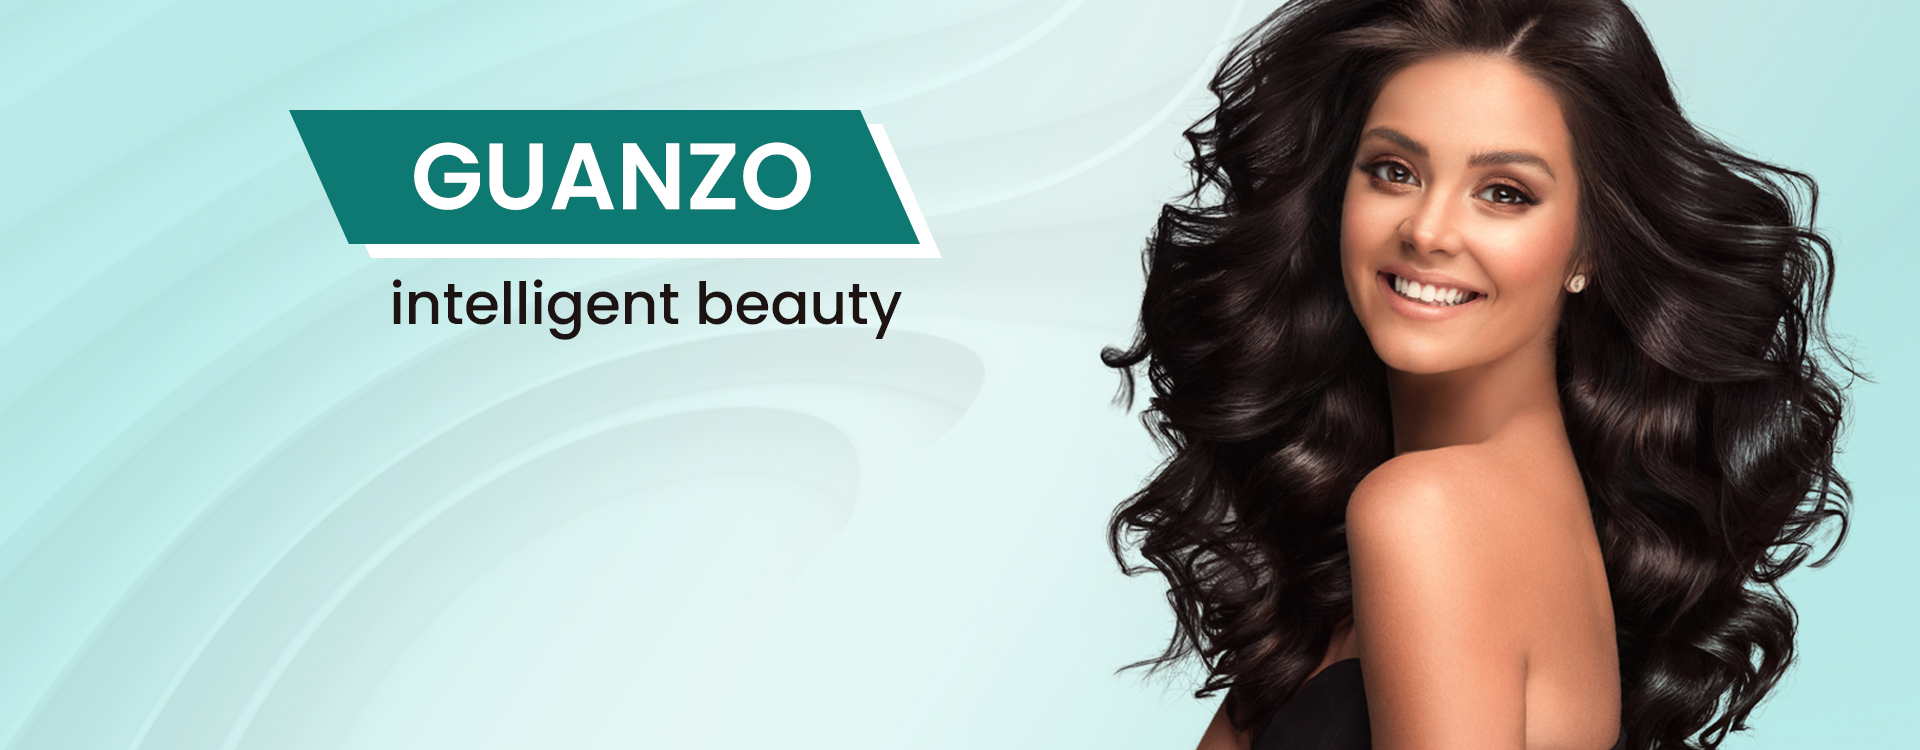
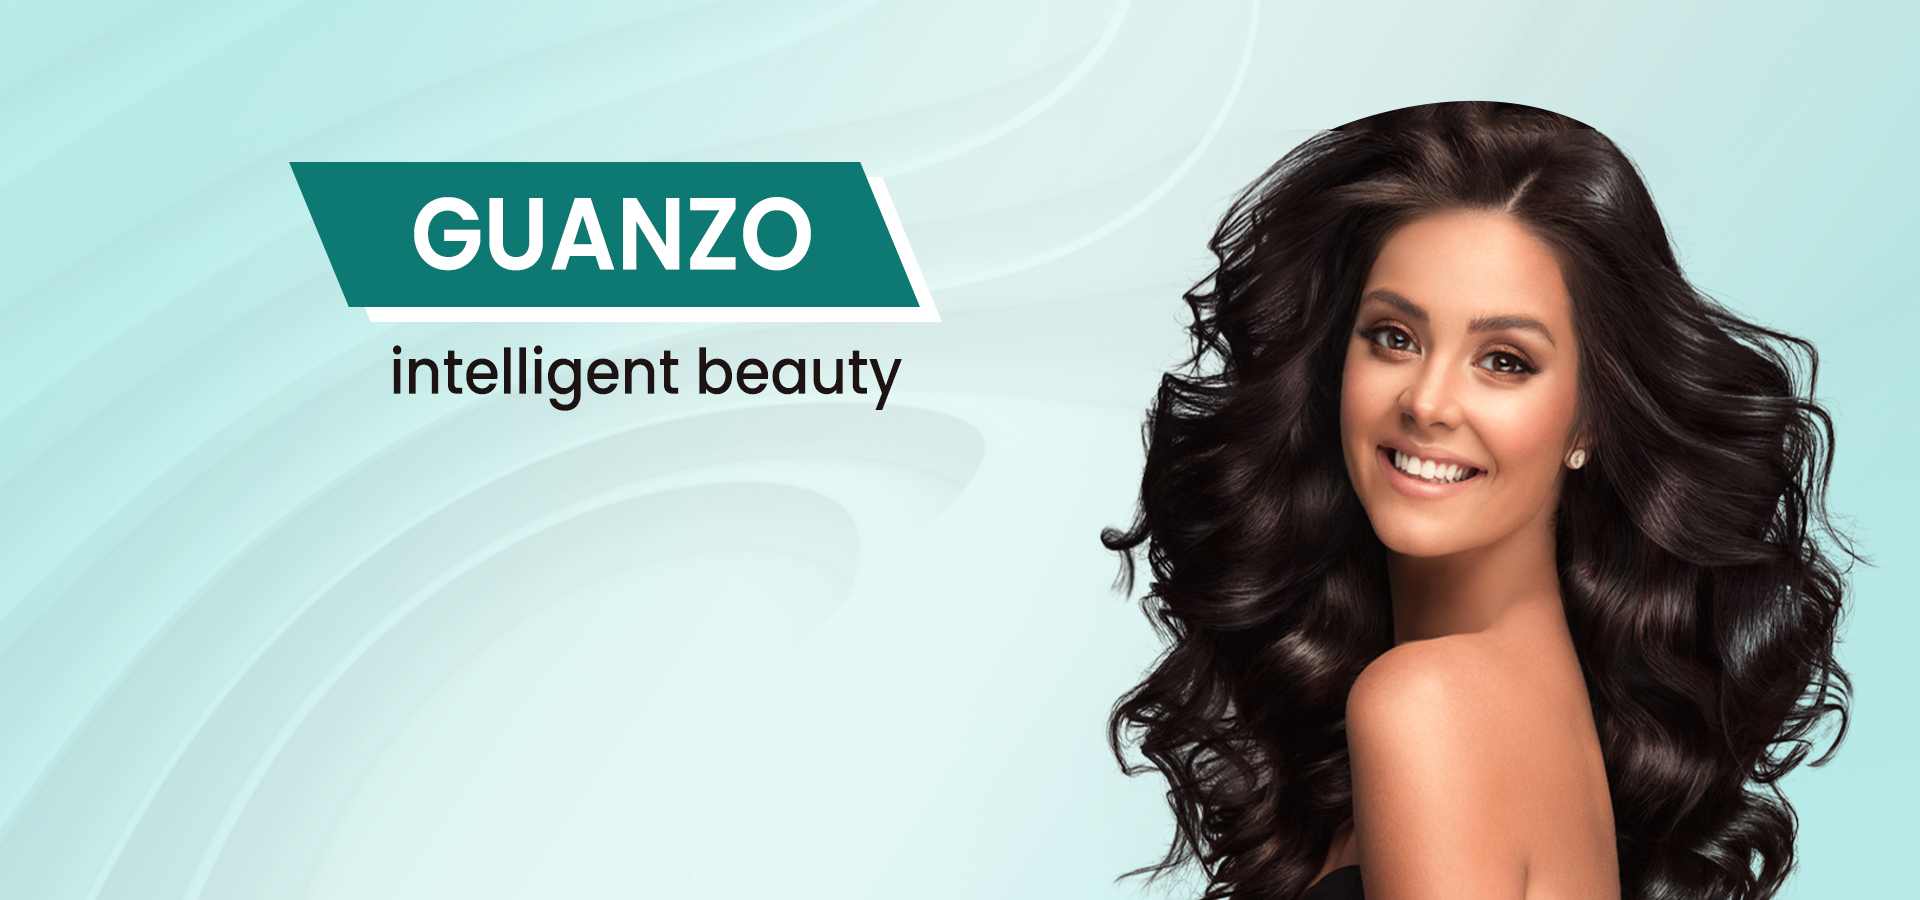
home page design

Changed region(s): [[0.5625, 0.0, 0.9688, 1.0], [0.1562, 0.1227, 0.5, 0.46]]

diff --git a/index.html b/index.html
@@ -43,27 +43,27 @@
         <section class="carousal-section">
             <div id="carouselExampleFade" class="carousel slide carousel-fade" data-ride="carousel">
                 <div class="carousel-inner">
+                  
+                    
                     <div class="carousel-item active">
-                        <img class="d-block w-100" src="img/professional-hair-dryers.jpg" alt="First slide" />
-                    </div>
-                    <div class="carousel-item">
                         <img class="d-block w-100" src="img/guanzo-intelligent-beauty-2.jpg" alt="Second slide" />
                     </div>
-                    <div class="carousel-item">
-                        <img class="d-block w-100" src="img/guanzo-intelligent-beauty.jpg" alt="Third slide" />
+
+                    <!-- <div class="carousel-item">
+                        <img class="d-block w-100" src="img/refreshing-&-strong.jpg" alt="Third slide" />
                     </div>
+
+                   
+                    
                     <div class="carousel-item">
                         <img class="d-block w-100" src="img/live-with-healthy-&-beautiful-hair.jpg" alt="Third slide" />
                     </div>
-                    <div class="carousel-item">
-                        <img class="d-block w-100" src="img/refreshing-&-strong.jpg" alt="Third slide" />
-                    </div>
+                    
                     <div class="carousel-item">
                         <img class="d-block w-100" src="img/protection-repair-and-shine.jpg" alt="Third slide" />
-                    </div>
-                    <div class="carousel-item">
-                        <img class="d-block w-100" src="img/protection-repair-and-shine-1.jpg" alt="Third slide" />
-                    </div>
+                    </div> -->
+                    
+                    
                 </div>
                 <!-- <a class="carousel-control-prev" href="#carouselExampleFade" role="button" data-slide="prev">
                     <span class="carousel-control-prev-icon" aria-hidden="true"></span>

diff --git a/css/style.scss b/css/style.scss
@@ -111,6 +111,11 @@ header{
 
                   > img{
                         height: calc(100vh - 72px);
+
+                        @media(min-width: 1440px) and (max-width: 1600px){
+                              // width: 1440px !important;
+                              height: 828px !important;
+                        }
                         // object-fit: cover;
                   }
 

diff --git a/css/style.css b/css/style.css
@@ -109,6 +109,12 @@ header nav .navbar-nav .nav-item:last-child .nav-link {
   height: calc(100vh - 72px);
 }
 
+@media (min-width: 1440px) and (max-width: 1600px) {
+  .carousal-section .carousel-fade .carousel-item > img {
+    height: 828px !important;
+  }
+}
+
 .carousal-section .carousel-fade .carousel-item .carousel-caption {
   position: absolute;
   left: 7.2%;
